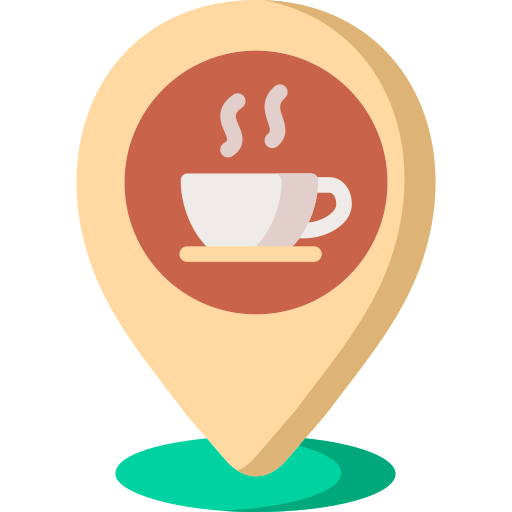
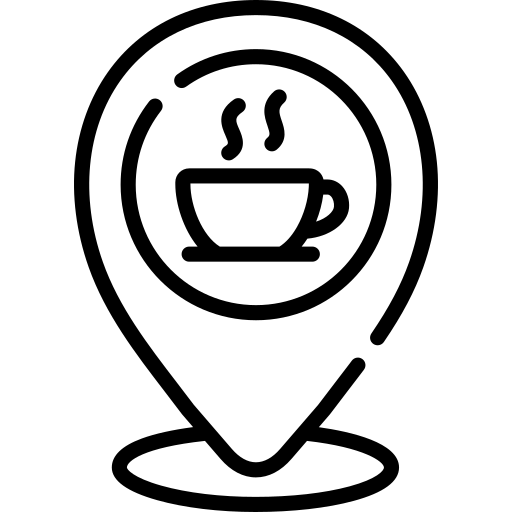
design : map marker 이미지 변경

diff --git a/client/src/map/MapLayout.js b/client/src/map/MapLayout.js
@@ -43,9 +43,9 @@ const MapLayout = ({ cafes }) => {
 
     cafes.forEach((cafe) => {
       var imageSrc = cafe.existing
-          ? "/img/marker_in.png"
-          : "/img/marker_out.png", // 마커이미지 주소
-        imageSize = new kakao.maps.Size(60, 60), // 마커이미지의 크기
+          ? "/img/marker_in.png" // 입점카페
+          : "/img/marker_basic.png", // 기본카페
+        imageSize = cafe.existing ? new kakao.maps.Size(60, 60) : new kakao.maps.Size(30, 30),
         imageOption = { offset: new kakao.maps.Point(27, 69) }; // 마커 좌표와 일치시킬 이미지 내 좌표
 
       // 마커이미지 생성
@@ -65,7 +65,6 @@ const MapLayout = ({ cafes }) => {
       kakao.maps.event.addListener(marker, "click", function () {
         // 클릭한 카페 정보 상태에 저장
         setSelectCafe(cafe);
-
         // 클릭한 카페에 대해 현재 회원의 찜 여부
         if (memNo != null) { 
           axios.get(`${url}/member/cafeIsWish/${memNo}/${cafe.cafeNo}`, {

diff --git a/client/src/main/MainMap.js b/client/src/main/MainMap.js
@@ -29,9 +29,9 @@ const MainMap = () => {
     cafes.forEach((cafe) => {
       console.log(cafe.existing);
       var imageSrc = cafe.existing
-          ? "/img/marker_in.png"
-          : "/img/marker_out.png", // 마커이미지 주소
-        imageSize = new kakao.maps.Size(60, 60), // 마커이미지의 크기
+          ? "/img/marker_in.png" // 입점카페
+          : "/img/marker_basic.png", // 기본카페
+        imageSize = cafe.existing ? new kakao.maps.Size(60, 60) : new kakao.maps.Size(30, 30),
         imageOption = { offset: new kakao.maps.Point(27, 69) }; // 마커 좌표와 일치시킬 이미지 내 좌표
 
       // 마커이미지 생성
